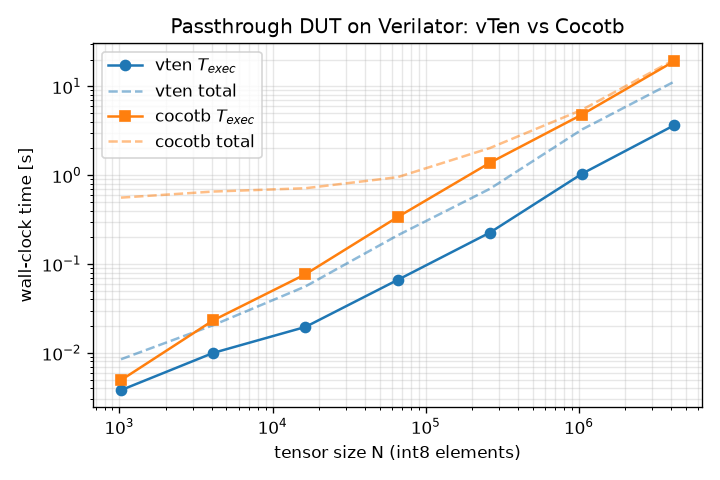
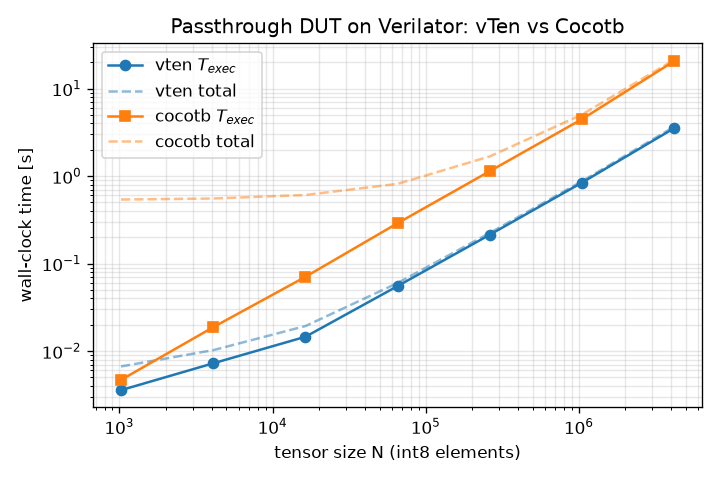
benchmarks: re-measure after StreamSerializer vectorization
Refresh the cocotb-comparison README table and plot from a fresh clean
sweep (R=3, --max-n 4194304) run after commit e06650e vectorized
StreamSerializer.serialize/deserialize.

Key before -> after at N = 4,194,304 (warm medians):
- vTen t_serialize: 5.98 s -> 0.032 s (~186x on this path); serialization
  is now <= 1.3% of the warm total at every measured N
- vTen T_total: 11.32 s -> 3.674 s; T_total ratio vs Cocotb ~1.8x -> ~5.8x,
  now tracking the T_exec ratio (3.537 s vs 20.677 s, 5.8x)
- vTen non-exec overhead: (3.674 - 3.537) / 3.674 ~= 3.7%, consistent with
  the paper's "< 10% at large N" claim
- T_exec ratios across the sweep: 1.3x (1K), 2.6x (4K), 4.8x (16K),
  5.2x (64K), 5.3x (256K), 5.3x (1M), 5.8x (4M)

The pre-fix single 16M data point keeps its T_exec (15.13 s) labeled as
predating e06650e; its serializer-dominated warm T_total (50.70 s) is
dropped as no longer representative. assets/plot.png replaced with the
new results/plot.png.

diff --git a/benchmarks/cocotb_comparison/README.md b/benchmarks/cocotb_comparison/README.md
@@ -90,22 +90,24 @@ R=3 repeats; both frameworks run the identical DUT/simulator/tensor.
 
 | N | beats | vTen T_exec [s] | Cocotb T_exec [s] | T_exec ratio | vTen T_total [s] | Cocotb T_total [s] |
 |---:|---:|---:|---:|---:|---:|---:|
-| 1,024 | 32 | 0.0038 | 0.0049 | 1.3× | 0.008 | 0.56 |
-| 4,096 | 128 | 0.0100 | 0.0233 | 2.3× | 0.021 | 0.65 |
-| 16,384 | 512 | 0.0196 | 0.0768 | 3.9× | 0.056 | 0.71 |
-| 65,536 | 2,048 | 0.0663 | 0.3382 | 5.1× | 0.211 | 0.95 |
-| 262,144 | 8,192 | 0.2259 | 1.3805 | 6.1× | 0.703 | 2.02 |
-| 1,048,576 | 32,768 | 1.0402 | 4.8228 | 4.6× | 3.28 | 5.46 |
-| 4,194,304 | 131,072 | 3.6554 | 19.2427 | 5.3× | 11.32 | 19.95 |
+| 1,024 | 32 | 0.0036 | 0.0047 | 1.3× | 0.0067 | 0.54 |
+| 4,096 | 128 | 0.0072 | 0.0187 | 2.6× | 0.0102 | 0.55 |
+| 16,384 | 512 | 0.0146 | 0.0706 | 4.8× | 0.0193 | 0.61 |
+| 65,536 | 2,048 | 0.0553 | 0.2897 | 5.2× | 0.0600 | 0.81 |
+| 262,144 | 8,192 | 0.2140 | 1.1401 | 5.3× | 0.2242 | 1.68 |
+| 1,048,576 | 32,768 | 0.8441 | 4.4813 | 5.3× | 0.8747 | 5.06 |
+| 4,194,304 | 131,072 | 3.5372 | 20.6768 | 5.8× | 3.6742 | 21.38 |
 
 Notes:
 
 - **Sweep bound.** The published sweep was run with `--max-n 4194304` so
-  every subprocess stays far below the 145 s kill timeout. An earlier,
-  identically configured run additionally recorded **one vTen point at
-  N = 16,777,216: T_exec = 15.13 s, warm T_total = 50.70 s** — quoted here
+  every subprocess stays far below the 145 s kill timeout. An earlier run
+  (predating the serializer vectorization of commit `e06650e`) additionally
+  recorded **one vTen point at N = 16,777,216: T_exec = 15.13 s** — quoted
   for scale only (single run, not a median; the matching Cocotb 16M runs
-  did not complete within that session's wall-clock budget).
+  did not complete within that session's wall-clock budget). That run's
+  warm T_total (50.70 s) is not quoted: it was dominated by the pre-fix
+  serializer and is no longer representative.
 - **T_total semantics differ** (see the stage table above): vTen's is the
   warm in-session batch (serialize + load + exec + readback + verify),
   Cocotb's includes its per-run simulator launch + Python bring-up
@@ -118,22 +120,27 @@ Notes:
 
 ### Observed trends vs the paper
 
-- **Per-beat transport cost is linear on both sides, with a ~5× constant
-  gap.** In steady state Cocotb spends ≈147 µs per 256-bit beat (each beat
-  crosses the VPI boundary into Python twice — drive and monitor), vTen
-  ≈28–32 µs per beat of simulator work. Once fixed costs are amortized
-  (N ≥ 65,536) the T_exec ratio settles at ≈5× (4.6–6.1×).
+- **Per-beat transport cost is linear on both sides, with a ~5–6× constant
+  gap.** In steady state Cocotb spends ≈140–160 µs per 256-bit beat (each
+  beat crosses the VPI boundary into Python twice — drive and monitor),
+  vTen ≈26–27 µs per beat of simulator work. Once fixed costs are
+  amortized (N ≥ 65,536) the T_exec ratio settles at ≈5–6× (5.2–5.8×).
 - **The gap exceeds the paper's ~2× (Fig. 8) — as predicted** in the
   framing section: the passthrough DUT has zero compute, so there is no
   kernel execution time to amortize the transport overhead against. The
   qualitative claim (per-beat VPI overhead vs batched SHM) reproduces; the
   magnitude is DUT-dependent.
-- **End-to-end the gap is smaller** (T_total ≈1.8× at N = 4M): vTen's warm
-  total is dominated by its host-side `StreamSerializer` (5.98 s at N = 4M,
-  vs 0.05 s for Cocotb's raw numpy beat packing), i.e. on this
-  zero-compute DUT vTen's wire-format serializer — not the transport — is
-  its large-N bottleneck. At small N the picture inverts: Cocotb's fixed
-  ~0.55 s launch cost makes vTen's total up to 70× lower.
+- **End-to-end the gap now matches the transport gap.** An earlier revision
+  of this benchmark found vTen's host-side `StreamSerializer` to be the
+  large-N bottleneck (5.98 s at N = 4M, capping the T_total gap at ~1.8×).
+  Commit `e06650e` vectorized the serializer (~186× on this path:
+  5.98 s → 0.032 s at N = 4M), so serialization is now negligible at every
+  measured N (≤ 1.3% of the warm total) and the T_total ratio tracks the
+  T_exec ratio (~5.8× at N = 4M). vTen's total non-exec overhead
+  (serialize + load + readback/verify) is ~3.7% of the warm total at
+  N = 4M — consistent with the paper's "< 10% at large N" claim. At small
+  N the fixed costs dominate instead: Cocotb's ~0.55 s per-run launch cost
+  makes vTen's total up to ~80× lower at N = 1,024.
 
 ## Verification-LOC comparison (paper §4.4 analog)
 
